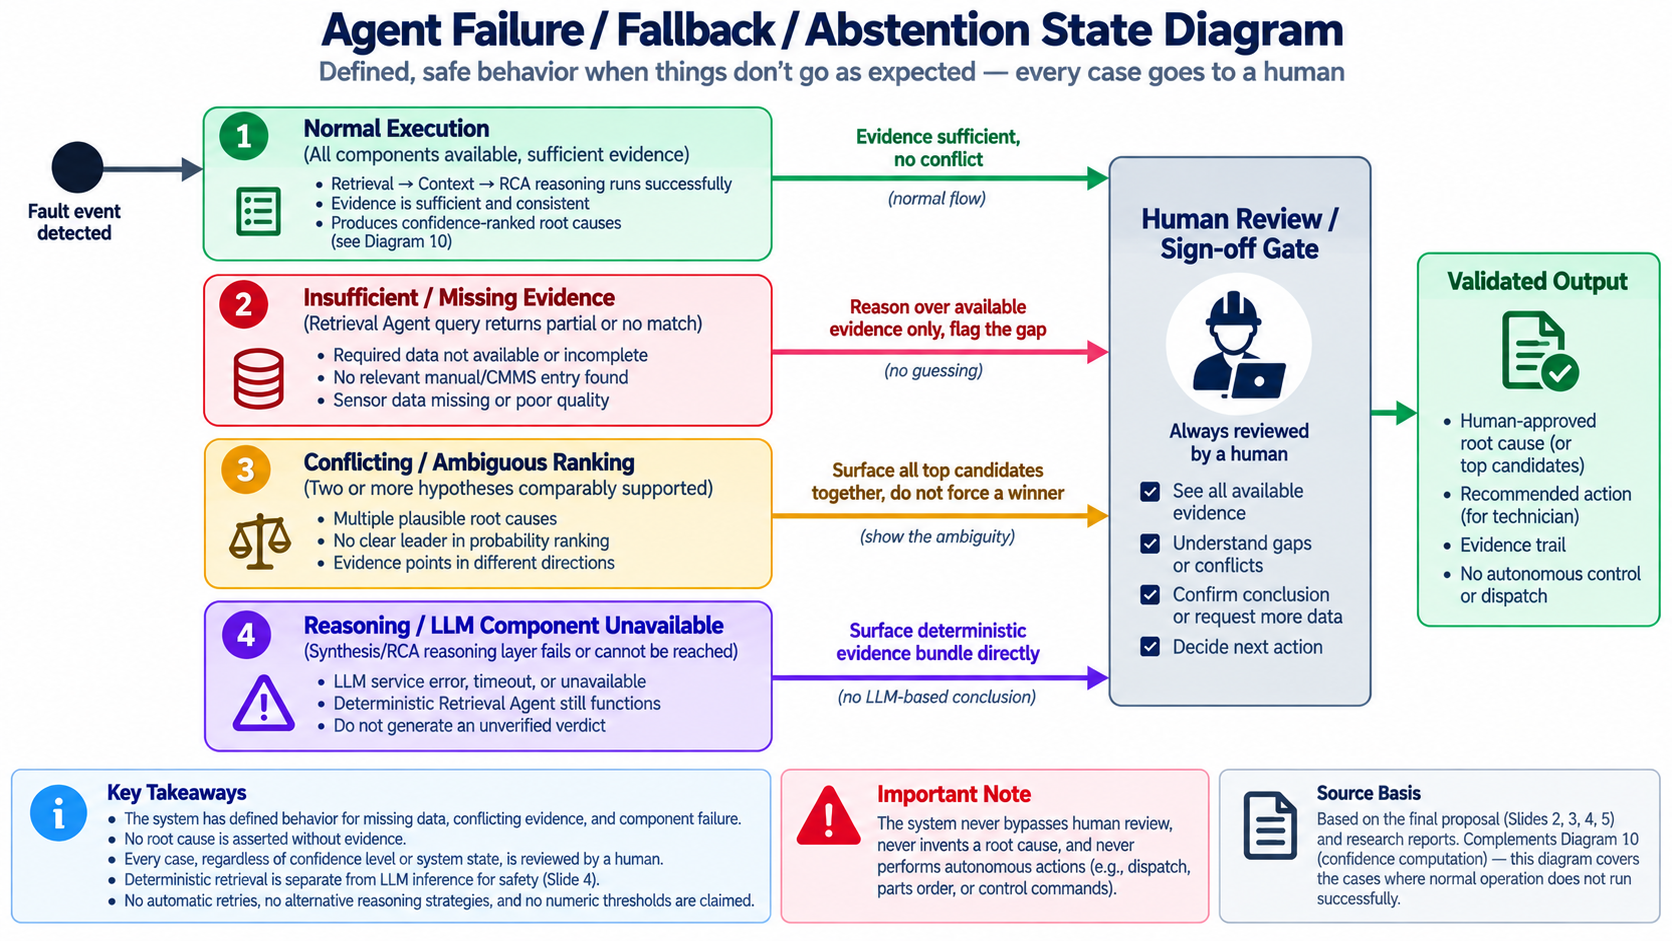
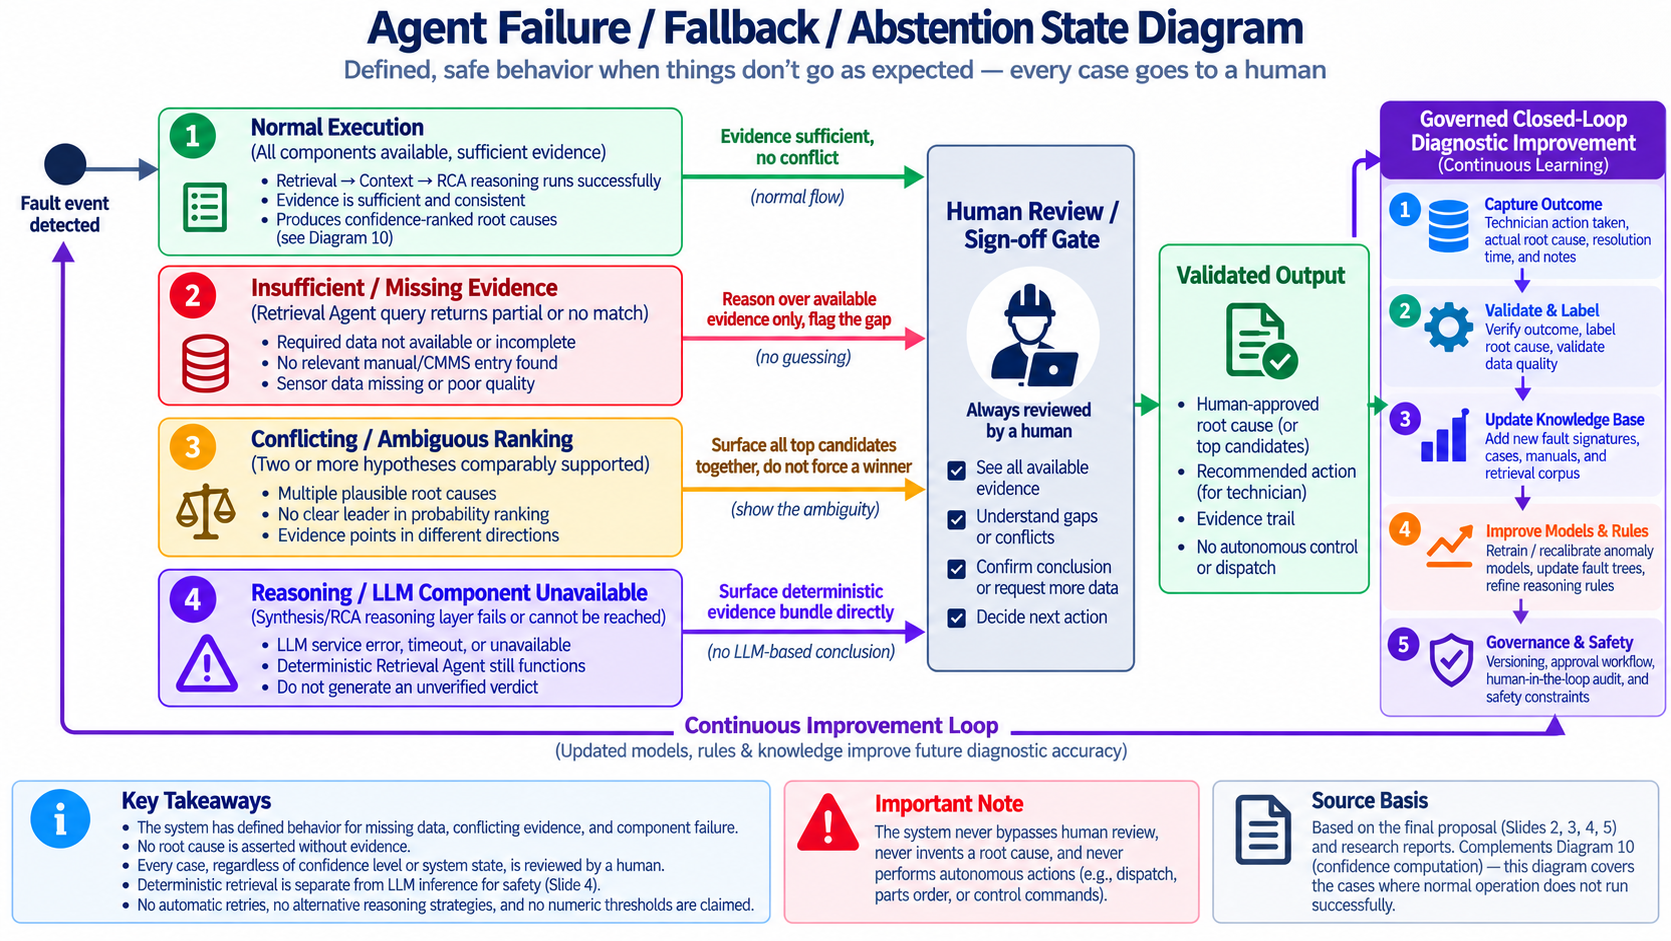
docs: update Figure 9 Abstention State Diagram with closed-loop governance and verify all project assets

diff --git a/README.md b/README.md
@@ -322,7 +322,7 @@ graph TD
 <p align="center">
   <img src="docs/images/07_abstention_state_diagram.png" alt="Agent Failure, Fallback & Abstention State Diagram" width="95%" style="border-radius: 8px; box-shadow: 0 4px 6px -1px rgba(0,0,0,0.1);" />
   <br>
-  <em>Figure 9: Deterministic Fallback & Principled Abstention State Pathways — Safe behavior when data is missing, ambiguous, or contradictory</em>
+  <em>Figure 9: Agent Fallback & Abstention State Pathways with Governed Closed-Loop Learning — Defined, safe behavior when data is missing, ambiguous, or unverified; every case routed through human review</em>
 </p>
 
 ElevateRCA divides diagnostic certainty into **Root Cause Confidence ($C_{diag}$)** and **Action Confidence ($C_{act}$)**:
